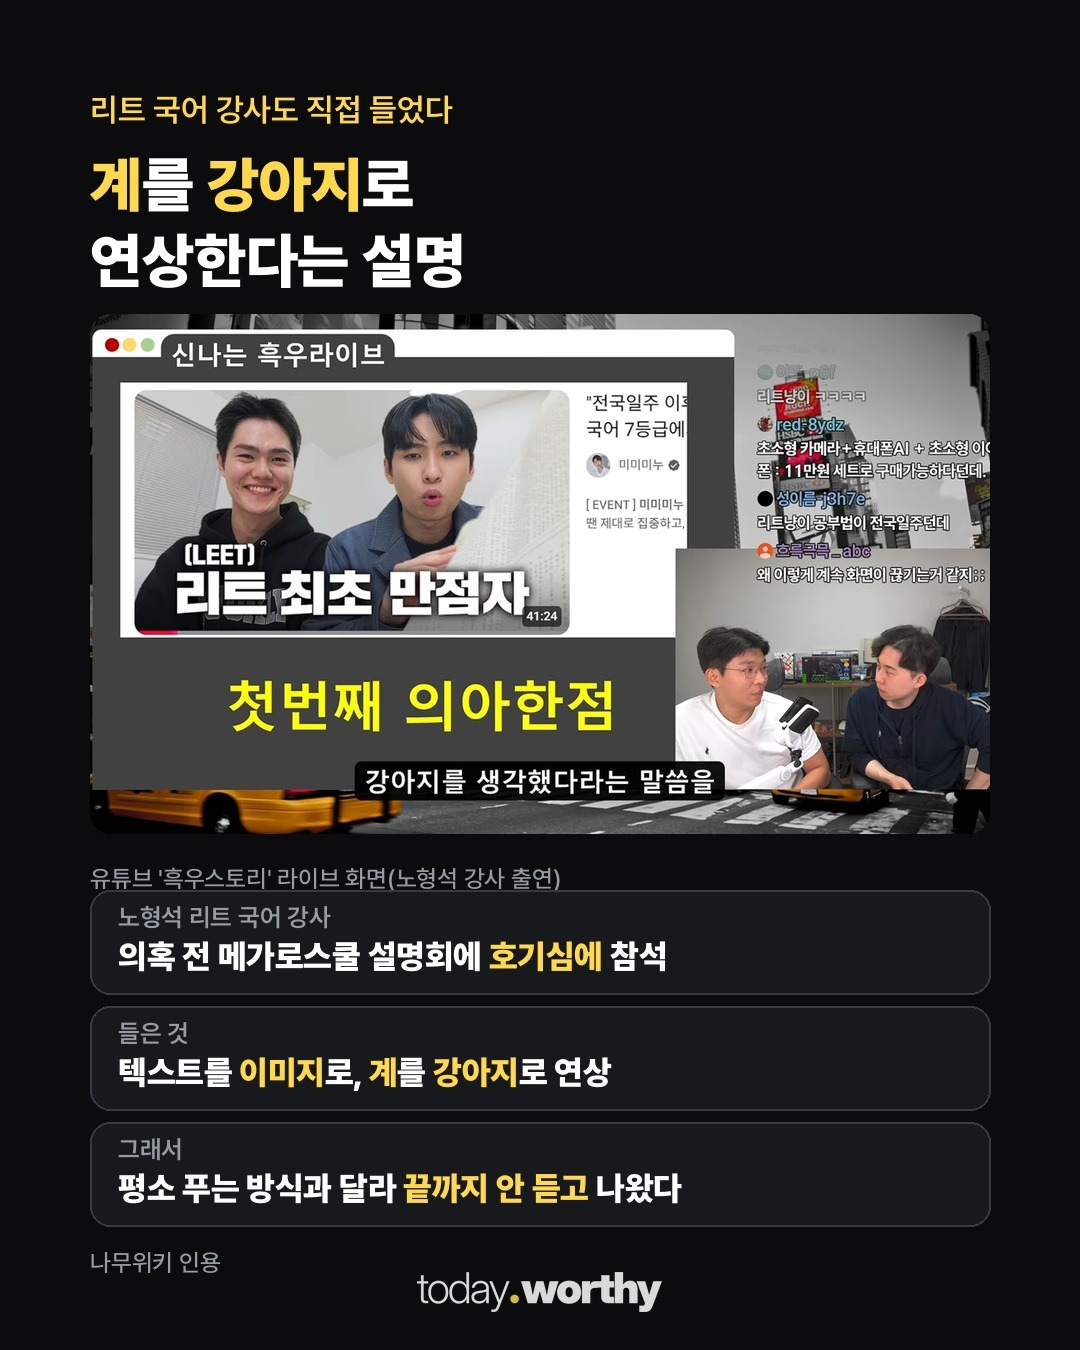
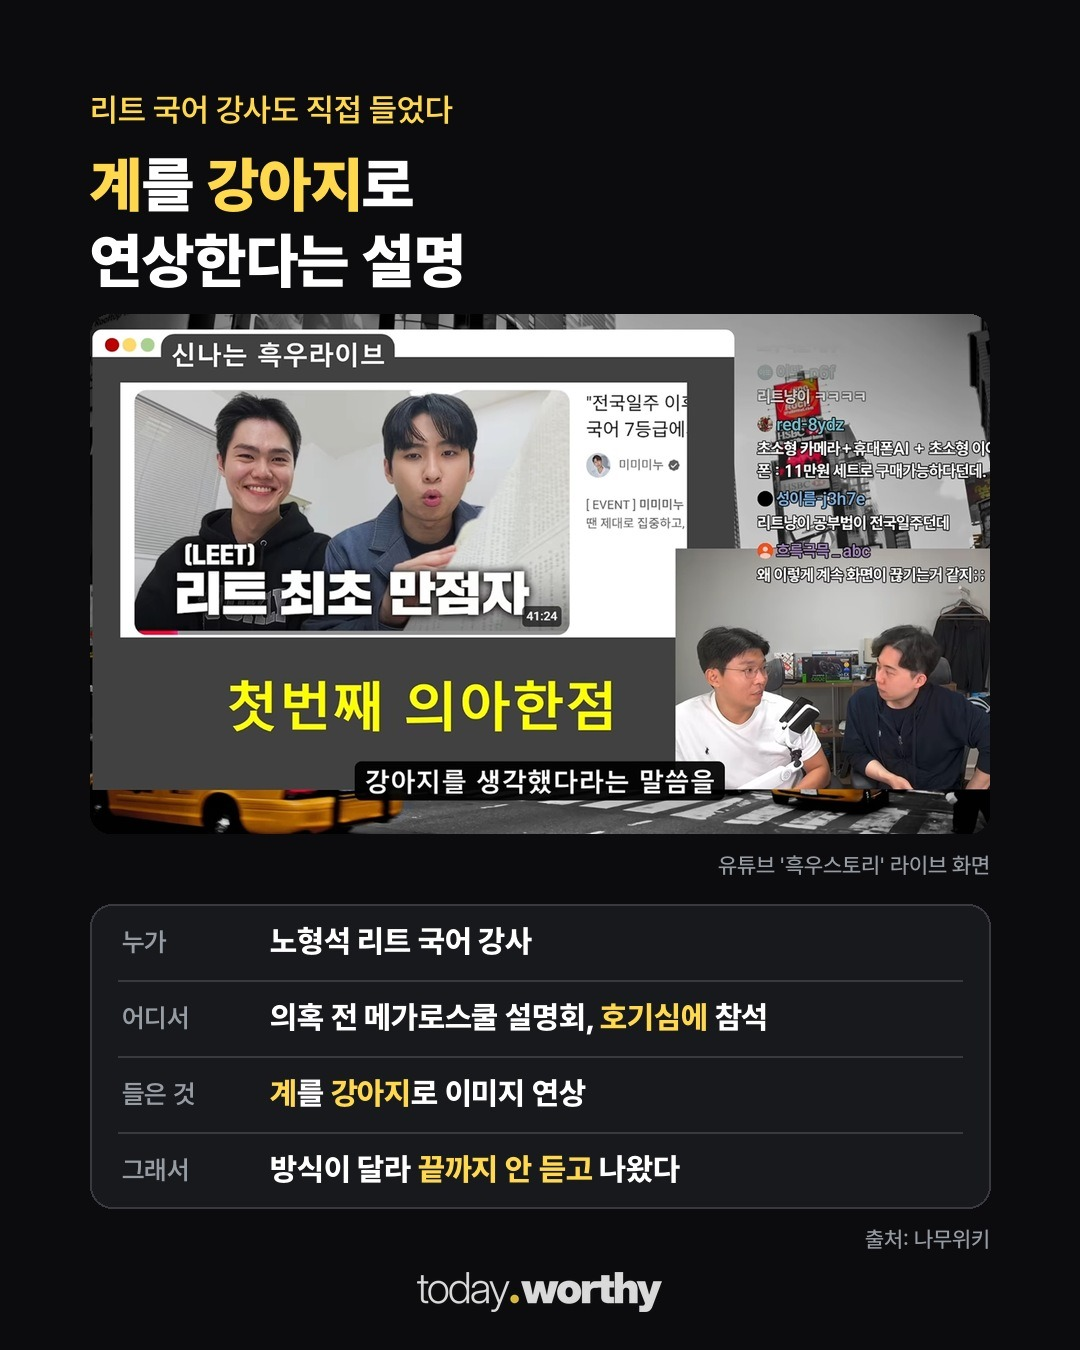
leetlec: 3장 하단 정리, 표지 교체
Claude-Session: https://claude.ai/code/session_01FGsw5QnWxFUsnopcB1Czie

Changed region(s): [[0.0917, 0.6222, 0.9167, 0.9644], [0.6722, 0.6222, 0.9167, 0.6844], [0.7944, 0.9022, 0.9167, 0.9333]]

diff --git a/media/20261118-leetlec/build_cards.py b/media/20261118-leetlec/build_cards.py
@@ -17,14 +17,21 @@ im = base(); d = ImageDraw.Draw(im); y = head(d, "리트 국어 강사도 직접
 # 사용자: 노형석 강사 유튜브 화면 넣기 — 유튜브 '흑우스토리' 라이브(노형석 강사 출연, 리트 시험지 분석) 화면, 네이트 뉴스 기사 사진
 ph = ImageOps.fit(Image.open(O / "nohs.jpg").convert("RGB"), (W - 2 * P, 520), Image.LANCZOS, centering=(.5, .5))
 m = Image.new("L", ph.size, 0); ImageDraw.Draw(m).rounded_rectangle((0, 0, ph.width - 1, ph.height - 1), 20, fill=255); im.paste(ph, (P, y), m)
-d.text((P, y + 520 + 30), "유튜브 '흑우스토리' 라이브 화면(노형석 강사 출연)", font=F("Medium", 24), fill=MU); y += 520 + 56
-rows = [("노형석 리트 국어 강사", "의혹 전 메가로스쿨 설명회에 '호기심에' 참석"), ("들은 것", "텍스트를 '이미지'로, '계'를 '강아지'로 연상"),
-        ("그래서", "평소 푸는 방식과 달라 '끝까지 안 듣고' 나왔다")]
-for lab, txt in rows:
-    d.rounded_rectangle((P, y, W - P, y + 104), 20, fill=BOX, outline=LN, width=2)
-    d.text((P + 28, y + 12), lab, font=F("SemiBold", 25), fill=MU); rich(d, P + 28, y + 46, txt, F("Black", 33))
-    y += 116
-d.text((P, y + 10), "나무위키 인용", font=F("Medium", 24), fill=MU)
+y += 520 + 18
+d.text((W - P, y), "유튜브 '흑우스토리' 라이브 화면", font=F("Medium", 22), fill=MU, anchor="ra")
+y += 52
+# 하단: 한 판 안에 3줄, 왼쪽 라벨 열 + 오른쪽 내용, 얇은 구분선
+rows = [("누가", "노형석 리트 국어 강사"), ("어디서", "의혹 전 메가로스쿨 설명회, '호기심에' 참석"), ("들은 것", "'계'를 '강아지'로 이미지 연상"),
+        ("그래서", "방식이 달라 '끝까지 안 듣고' 나왔다")]
+rh = 76; top = y
+d.rounded_rectangle((P, top, W - P, top + rh * len(rows)), 22, fill=BOX, outline=LN, width=2)
+for k, (lab, txt) in enumerate(rows):
+    cy = top + rh * k + rh // 2
+    if k: d.line((P + 28, top + rh * k, W - P - 28, top + rh * k), fill=LN, width=2)
+    d.text((P + 32, cy), lab, font=F("SemiBold", 26), fill=MU, anchor="lm")
+    rich(d, P + 180, cy - 20, txt, F("ExtraBold", 31))
+y = top + rh * len(rows) + 18
+d.text((W - P, y), "출처: 나무위키", font=F("Medium", 22), fill=MU, anchor="ra")
 logo(im); im.save(O / "c03.jpg", quality=93)
 from PIL import ImageFilter
 # 표지(사용자: '강연하는 느낌'): 손짓하며 설명하는 보도사진(네이트 뉴스 기사 사진)
